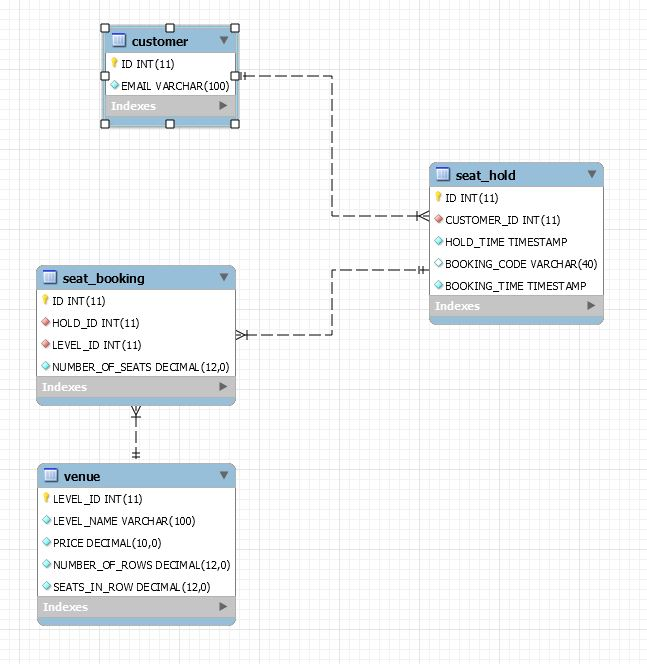
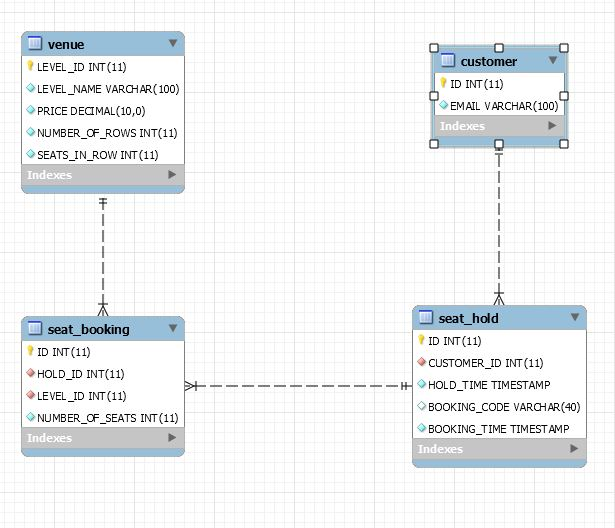
Added Sequence diagram

diff --git a/README.md b/README.md
@@ -12,12 +12,6 @@ This application is developed using Spring Boot, Spring JDBC, Spring RESTful web
 4. No notification for the expiration of seat holds.
 5. User can hold and reserve the seats at multiple levels by providing the minLevel and maxLevel.
 
-### DB Schema
----
-The application is designed using HSQLDB. For illustration purposes, I have generated the schema design using MySQL Workbench.
-
-![schemaDesign](https://github.com/vamshins/ticket-booking-service/blob/master/img/schemaDesign.JPG)
-
 ### Building Project
 ---
 1.	Clone the project
@@ -150,3 +144,14 @@ mvn test
 
 ![testResults](https://github.com/vamshins/ticket-booking-service/blob/master/img/testResults.JPG)
 
+### DB Schema
+---
+The application is designed using HSQLDB. For illustration purposes, I have generated the schema design using MySQL Workbench.
+
+![schemaDesign](https://github.com/vamshins/ticket-booking-service/blob/master/img/schemaDesign.JPG)
+
+### Sequence Diagram for holding seats
+---
+The following diagram shows the request and response flow of holding the seats.
+
+![sequenceDiagram](https://github.com/vamshins/ticket-booking-service/blob/master/img/sequenceDiagram.JPG)
